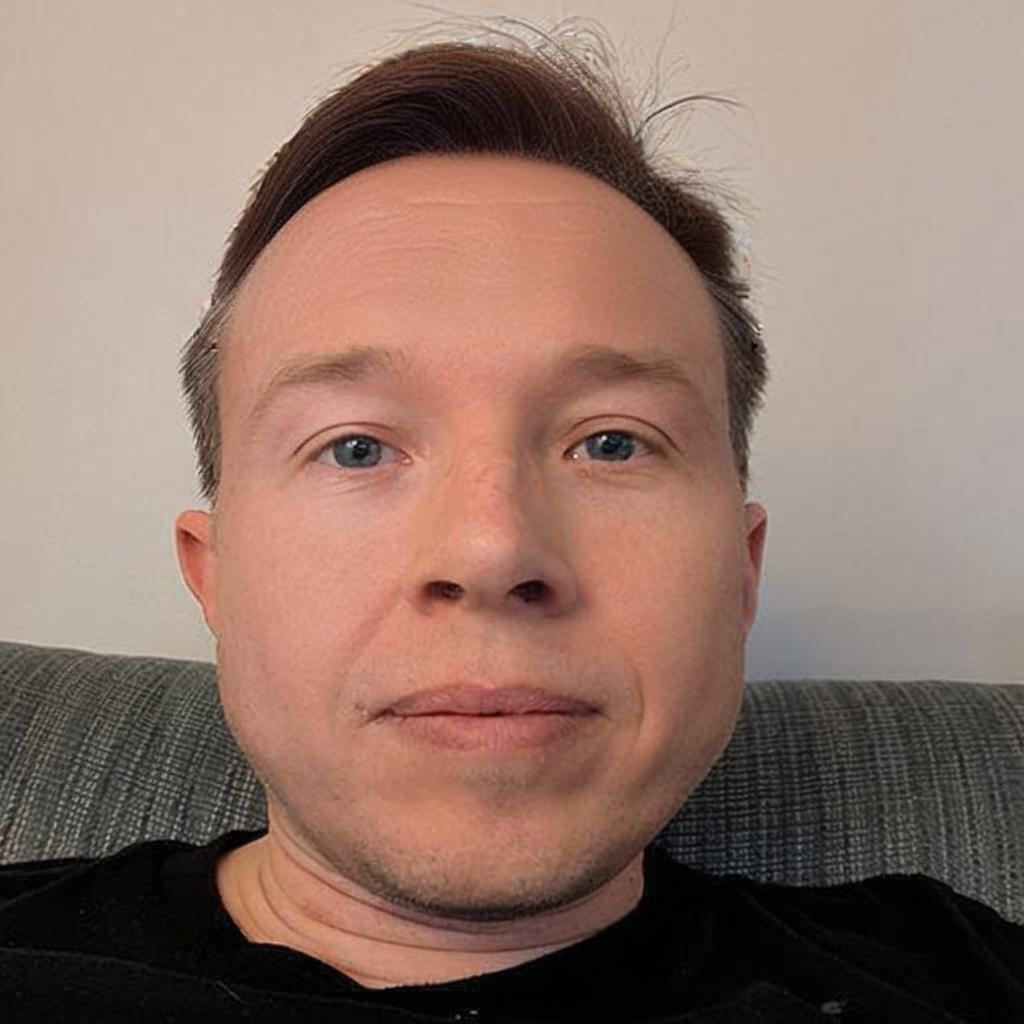
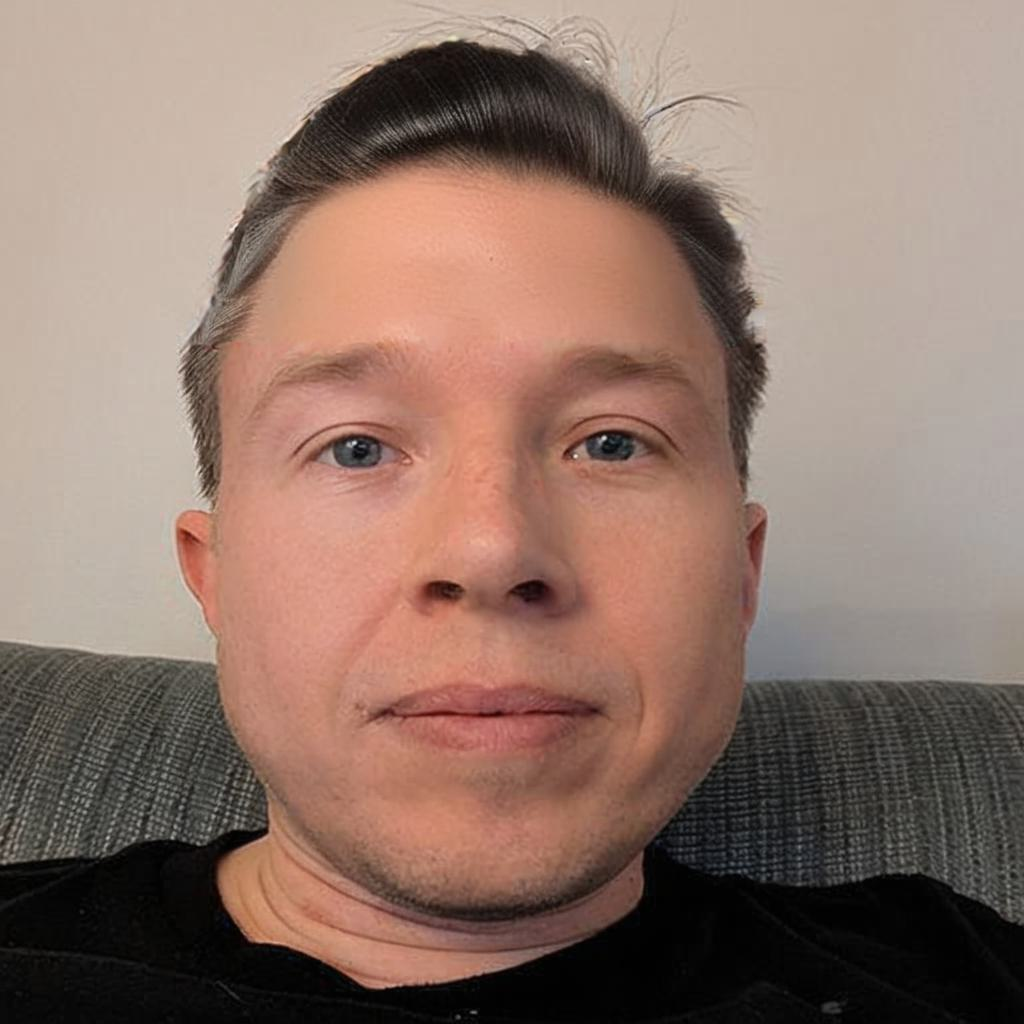
stefan-edit: adjusted to a decent spot

Changed region(s): [[0.1875, 0.0312, 0.75, 0.3438]]

diff --git a/lib/hair.py b/lib/hair.py
@@ -106,7 +106,7 @@ class HairMaskPipeline:
 
     def apply_hair_color(self, image_path, mask_path, prompt,
                          output_path="output/edited_image.png",
-                         strength=0.5, guidance_scale=7.5):
+                         strength=0.1, guidance_scale=7.5):
         """
         Apply a new hair color to an image using Stable Diffusion's
         inpainting pipeline.
